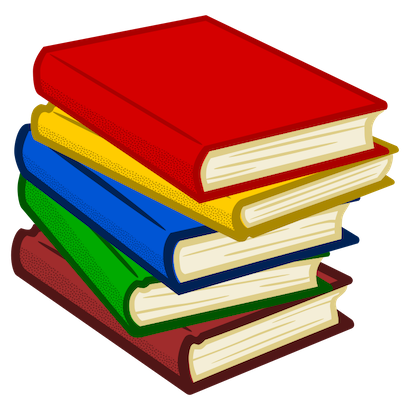
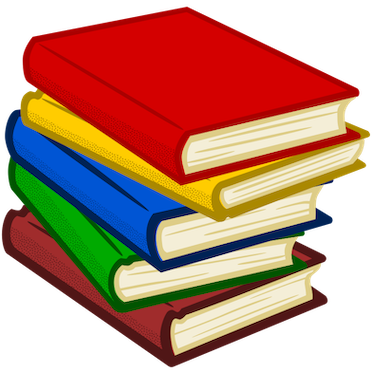
Resized images and removed data position attributes

diff --git a/index.html b/index.html
@@ -152,7 +152,7 @@
 								<section>
 									<div class="split style1">
 										<section>
-											<a href="team.html" class="image"><img src="images/team-pyramid.png" alt="" data-position="center center" /></a>
+											<a href="team.html" class="image"><img src="images/team-pyramid.png" alt="" /></a>
 										</section>
 										<section>
 											<div class="content">
@@ -176,7 +176,7 @@
 								<section>
 									<div class="split style1">
 										<section>
-											<a href="sources.html" class="image"><img src="images/books.png" alt="" data-position="center center" /></a>
+											<a href="sources.html" class="image"><img src="images/books.png" alt="" /></a>
 										</section>
 										<section>
 											<div class="content">
@@ -200,7 +200,7 @@
 								<section>
 									<div class="split style1">
 										<section>
-											<a href="social.html" class="image"><img src="images/social.png" alt="" data-position="center center" /></a>
+											<a href="social.html" class="image"><img src="images/social.png" alt="" /></a>
 										</section>
 										<section>
 											<div class="content">
